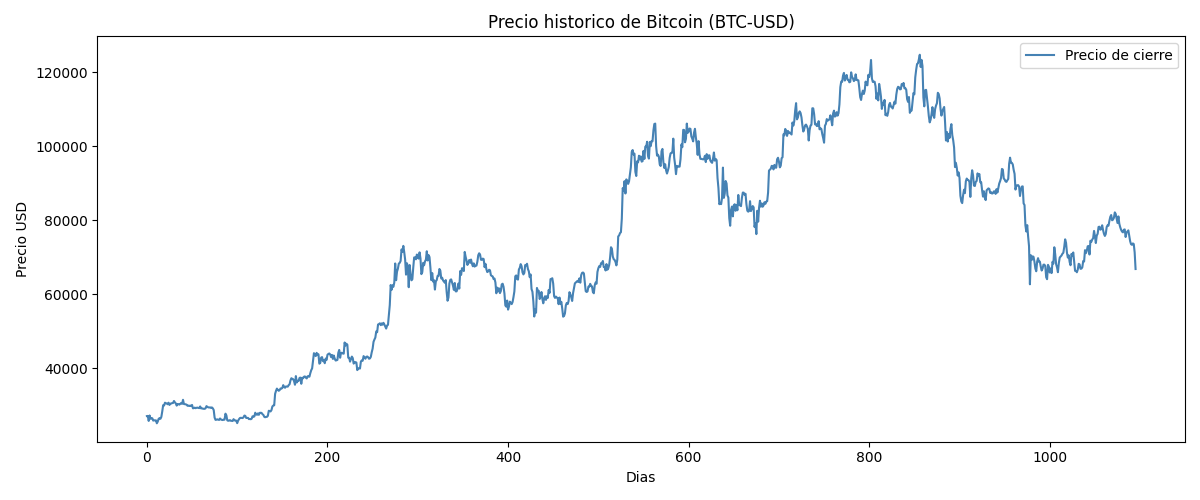
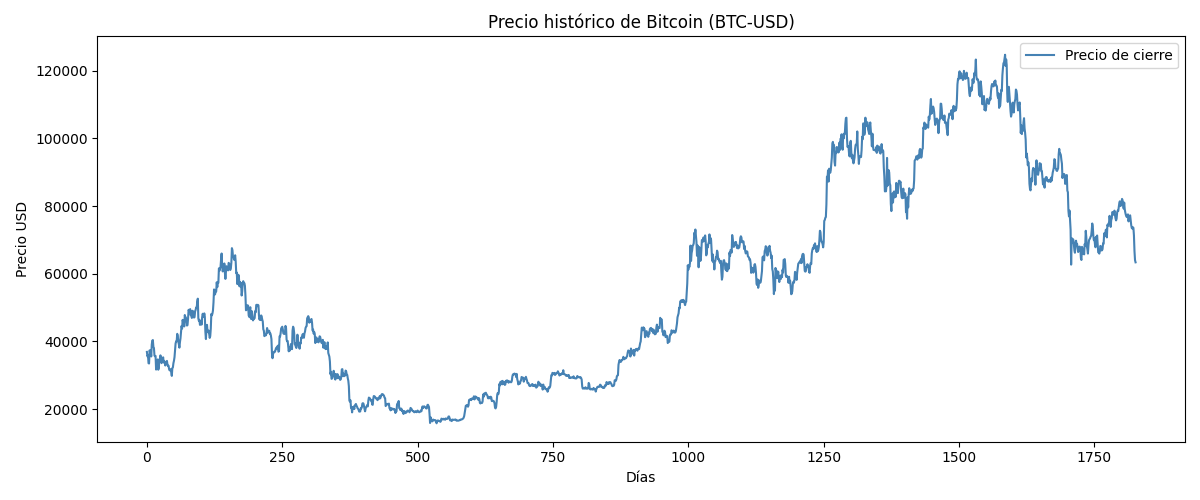
feat: actualizar años de historial a descargar y modificar datos de pérdida en el archivo JSON

diff --git a/bitcoin-proyect/model/config.py b/bitcoin-proyect/model/config.py
@@ -5,7 +5,7 @@
 # ── Datos ─────────────────────────────────────────────────────────────────────
 
 TICKER      = "BTC-USD"
-YEARS       = 3          # años de historial a descargar
+YEARS       = 5          # años de historial a descargar
 WINDOW      = 60         # días de ventana deslizante para las secuencias LSTM
 TRAIN_SPLIT = 0.8        # proporción de datos para entrenamiento (80/20)
 